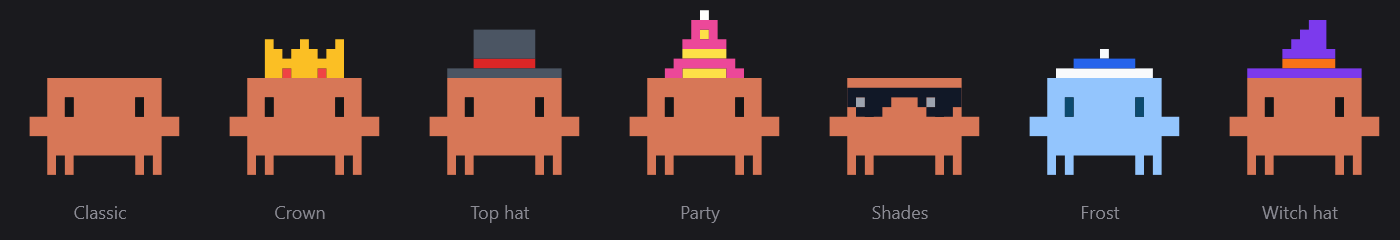
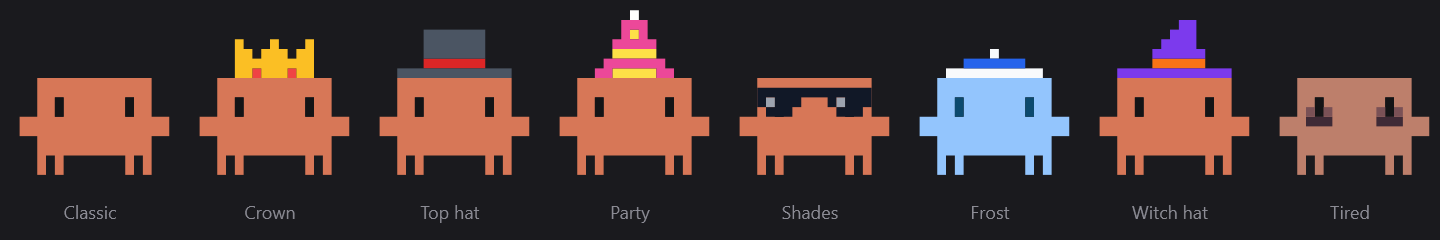
Skin: Tired, with dark circles under the eyes
Claude-Session: https://claude.ai/code/session_019yDDwWhsq4VKYKGZ2ETS5x

diff --git a/CHANGELOG.md b/CHANGELOG.md
@@ -8,7 +8,8 @@
   autumn: the default theme follows the season (Halloween in September-November,
   Classic otherwise). `"accent": "#F472B6"` puts your own colour on links and
   the weekly bar.
-- **Clawd's skins:** Witch hat, Crown, Top hat, Party, Shades and Frost - his colours plus
+- **Clawd's skins:** Witch hat, Crown, Top hat, Party, Shades, Frost and Tired
+  (paler, with dark circles under the eyes) - his colours plus
   pixel accessories that move with him (a hat stays on while he runs and hops,
   and falls off when he lies on his back). Make your own: a small text file with
   the colours and the pixel art in `<clawdHome>\skins`, picked from the tray
